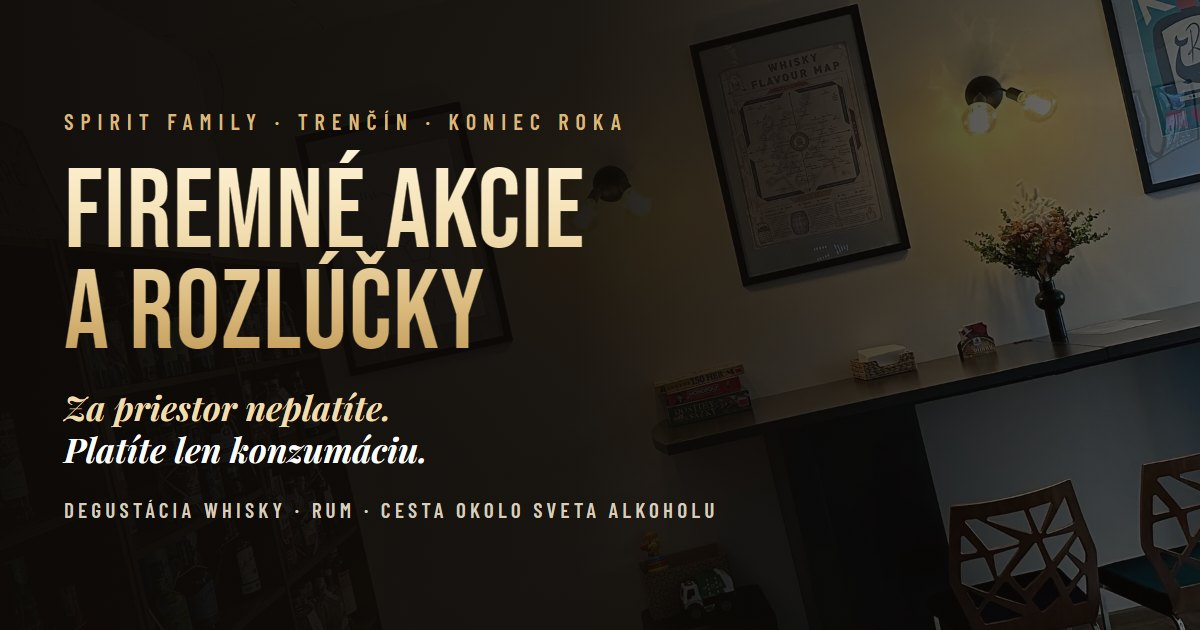
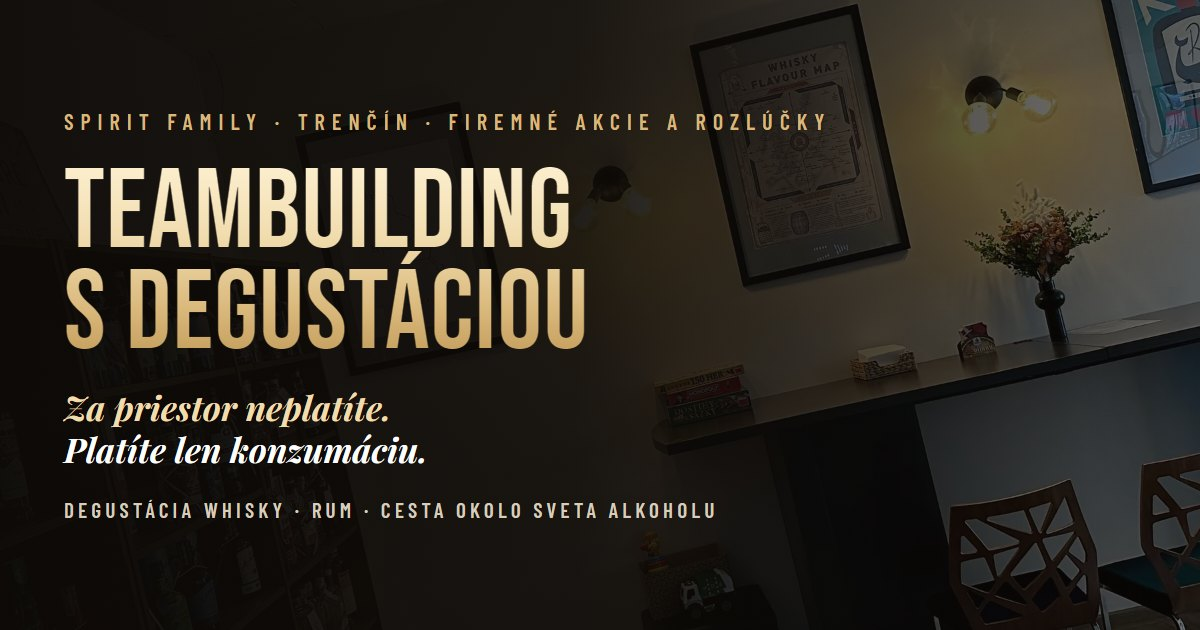
Firemné akcie: teambuilding s degustáciou, tímový kvíz

Changed region(s): [[0.0308, 0.2413, 0.4933, 0.573], [0.37, 0.181, 0.7092, 0.2111]]

diff --git a/firemne-akcie.html b/firemne-akcie.html
@@ -4,8 +4,8 @@
 <meta charset="utf-8">
 <meta property="og:image" content="https://spiritfamily.sk/img/firemne-akcie-og.jpg">
 <meta name="viewport" content="width=device-width, initial-scale=1">
-<title>Firemné akcie a vianočné rozlúčky | Spirit Family Trenčín</title>
-<meta name="description" content="Firemná akcia, vianočná rozlúčka alebo posedenie s kolegami v Spirit Family v Trenčíne. Za priestor neplatíte, platíte len konzumáciu. Riadená degustácia whisky, rumu alebo Cesta okolo sveta alkoholu, vlastné jedlo alebo catering.">
+<title>Teambuilding s degustáciou, firemné akcie a rozlúčky | Spirit Family Trenčín</title>
+<meta name="description" content="Teambuilding s riadenou degustáciou, firemná akcia alebo vianočná rozlúčka v Spirit Family v Trenčíne. Za priestor neplatíte, platíte len konzumáciu. Riadená degustácia whisky, rumu alebo Cesta okolo sveta alkoholu, vlastné jedlo alebo catering.">
 <link rel="canonical" href="https://spiritfamily.sk/firemne-akcie.html">
 <meta name="theme-color" content="#0d0a07">
 <link rel="icon" type="image/png" sizes="32x32" href="img/favicon-32.png">
@@ -13,14 +13,14 @@
 <meta property="og:type" content="website">
 <meta property="og:site_name" content="Spirit Family">
 <meta property="og:locale" content="sk_SK">
-<meta property="og:title" content="Firemné akcie a vianočné rozlúčky | Spirit Family Trenčín">
-<meta property="og:description" content="Firemná akcia, vianočná rozlúčka alebo posedenie s kolegami v Spirit Family v Trenčíne. Za priestor neplatíte, platíte len konzumáciu. Riadená degustácia whisky, rumu alebo Cesta okolo sveta alkoholu, vlastné jedlo alebo catering.">
+<meta property="og:title" content="Teambuilding s degustáciou, firemné akcie a rozlúčky | Spirit Family Trenčín">
+<meta property="og:description" content="Teambuilding s riadenou degustáciou, firemná akcia alebo vianočná rozlúčka v Spirit Family v Trenčíne. Za priestor neplatíte, platíte len konzumáciu. Riadená degustácia whisky, rumu alebo Cesta okolo sveta alkoholu, vlastné jedlo alebo catering.">
 <meta property="og:url" content="https://spiritfamily.sk/firemne-akcie.html">
 <meta property="og:image" content="https://spiritfamily.sk/img/og-image.jpg">
 <meta property="og:image:width" content="1200">
 <meta property="og:image:height" content="630">
 <link rel="preload" href="fonts/BebasNeue-400-latin.woff2" as="font" type="font/woff2" crossorigin>
-<link rel="stylesheet" href="assets/css/style.css?v=851dc91e">
+<link rel="stylesheet" href="assets/css/style.css?v=e42a382a">
 <script>document.documentElement.classList.add('js')</script>
 <script type="application/ld+json">{"@context":"https://schema.org","@type":"BarOrPub","name":"Spirit Family","url":"https://spiritfamily.sk/","image":"https://spiritfamily.sk/img/og-image.jpg","telephone":"+421914365920","email":"miroslav.balaj@spiritfamily.sk","address":{"@type":"PostalAddress","streetAddress":"Stromová 2548/1","addressLocality":"Trenčín – Biskupice","postalCode":"911 01","addressCountry":"SK"},"openingHours":["Mo-Fr 08:30-11:30","Mo-Fr 16:00-22:00","Su 16:00-22:00"],"sameAs":["https://www.facebook.com/Spirit.Family.Trencin","https://instagram.com/spirit_family_tn","https://www.youtube.com/channel/UCdaCXXBIjzJ_YnHXy_MoJWQ"]}</script>
 </head>
@@ -34,7 +34,7 @@
       <a href="index.html" data-nav="index">Domov</a>
       <a href="akcie.html" data-nav="akcie">Akcie</a>
       <a href="degustacia-u-vas.html" data-nav="degustacia-u-vas">Degustácia u vás</a>
-      <a href="firemne-akcie.html" data-nav="firemne-akcie" aria-current="page">Firemné akcie</a>
+      <a href="firemne-akcie.html" data-nav="firemne-akcie" aria-current="page">Teambuilding</a>
       <a href="novinky.html" data-nav="novinky">Novinky</a>
       <a href="listok.html" data-nav="listok">Nápojový lístok</a>
       <a href="index.html#galeria">Galéria</a>
@@ -47,9 +47,9 @@
   <section class="hero">
     <div class="hero-bg"><img src="img/galeria/interier-miestnost.webp" alt="" fetchpriority="high"></div>
     <div class="wrap">
-      <p class="eyebrow">Koniec roka · firemné akcie · rozlúčky</p>
-      <h1><span class="gold-text">Firemná akcia</span><br><span class="gold-text">u nás</span></h1>
-      <p class="serif-i">Za priestor u nás nikdy neplatíte. Platíte len to, čo si dáte.</p>
+      <p class="eyebrow">Teambuilding · firemné akcie · rozlúčky</p>
+      <h1><span class="gold-text">Teambuilding</span><br><span class="gold-text">s degustáciou</span></h1>
+      <p class="serif-i">Riadená degustácia, ktorá tím spojí. Za priestor u nás nikdy neplatíte, platíte len to, čo si dáte.</p>
       <div class="hero-cta">
         <a class="btn" href="#dopyt" data-dopyt="podujatie">Poslať dopyt</a>
         <a class="btn btn-ghost" href="#degustacie">Štýly degustácií</a>
@@ -67,7 +67,7 @@
       <div class="rv">
         <p class="eyebrow">Ponuka</p>
         <h2 class="h2">Večer s kolegami bez starostí</h2>
-        <p class="lead">Vianočný večierok, rozlúčka s rokom, poďakovanie tímu alebo stretnutie s klientmi. Bar pripravíme len pre vás a postaráme sa o to, aby sa večer vydaril.</p>
+        <p class="lead">Teambuilding, vianočný večierok, rozlúčka s rokom, poďakovanie tímu alebo stretnutie s klientmi. Bar pripravíme len pre vás a postaráme sa o to, aby sa večer vydaril.</p>
         <ul class="feats">
           <li>
             <svg viewBox="0 0 40 40" fill="none" stroke="currentColor" stroke-width="1.5" stroke-linecap="round" stroke-linejoin="round" aria-hidden="true"><path d="M6 15 20 7l14 8"/><path d="M9 15v16M31 15v16M15 31V21h10v10"/><path d="M5 33h30"/></svg>
@@ -75,7 +75,7 @@
           </li>
           <li>
             <svg viewBox="0 0 40 40" fill="none" stroke="currentColor" stroke-width="1.5" stroke-linecap="round" stroke-linejoin="round" aria-hidden="true"><path d="M13 5h14c1 6 1 11-2 15-1.5 2-3.5 3-5 3s-3.5-1-5-3c-3-4-3-9-2-15z"/><path d="M12.6 12h14.8"/><path d="M20 23v10M14 35h12"/></svg>
-            <div><h3>Riadená degustácia</h3><p>Ak chcete, večer odštartujeme degustáciou s výkladom: whisky, rum alebo Cesta okolo sveta alkoholu.</p></div>
+            <div><h3>Riadená degustácia ako teambuilding</h3><p>Degustácia s výkladom: whisky, rum alebo Cesta okolo sveta alkoholu. Na želanie aj kvíz, v ktorom proti sebe súťažia tímy.</p></div>
           </li>
           <li>
             <svg viewBox="0 0 40 40" fill="none" stroke="currentColor" stroke-width="1.5" stroke-linecap="round" stroke-linejoin="round" aria-hidden="true"><circle cx="20" cy="21" r="10"/><circle cx="20" cy="21" r="5"/><path d="M5 8v9a3 3 0 0 0 3 3v14M8 8v9M11 8v9a3 3 0 0 1-3 3"/><path d="M33 8c-2 2-3 5-3 9h3v17"/></svg>
@@ -94,7 +94,7 @@
     <div class="wrap">
       <div class="sec-head rv">
         <div>
-          <p class="eyebrow">Riadené degustácie</p>
+          <p class="eyebrow">Riadené degustácie · teambuilding</p>
           <h2>Vyberte si štýl degustácie</h2>
           <p class="serif-i">Každú vedieme s výkladom: odkiaľ destilát pochádza, ako vzniká a čo v pohári hľadať.</p>
         </div>
@@ -154,6 +154,10 @@
         <details>
           <summary>Môžeme si priniesť vlastné jedlo?</summary>
           <p>Áno. Jedlo si pokojne doneste. Ak nechcete nič riešiť, vybavíme vám catering a dohodneme ho podľa vašich predstáv.</p>
+        </details>
+        <details>
+          <summary>Hodí sa degustácia na teambuilding?</summary>
+          <p>Áno. Riadená degustácia rozprúdi debatu aj medzi kolegami, ktorí sa bežne nestretávajú. Na želanie ju doplníme kvízom, v ktorom súťažia tímy, a večer pokračuje voľnou zábavou.</p>
         </details>
         <details>
           <summary>Musí byť súčasťou degustácia?</summary>
@@ -232,7 +236,7 @@
     <span>Alkohol podávame len osobám starším ako 18 rokov · <a href="podmienky.html">Obchodné podmienky</a> · <a href="ochrana-udajov.html">Ochrana osobných údajov</a></span>
   </div>
 </footer>
-<script src="assets/js/config.js?v=851dc91e"></script>
-<script src="assets/js/app.js?v=851dc91e"></script>
+<script src="assets/js/config.js?v=e42a382a"></script>
+<script src="assets/js/app.js?v=e42a382a"></script>
 </body>
 </html>

diff --git a/akcie.html b/akcie.html
@@ -20,7 +20,7 @@
 <meta property="og:image:width" content="1200">
 <meta property="og:image:height" content="630">
 <link rel="preload" href="fonts/BebasNeue-400-latin.woff2" as="font" type="font/woff2" crossorigin>
-<link rel="stylesheet" href="assets/css/style.css?v=851dc91e">
+<link rel="stylesheet" href="assets/css/style.css?v=e42a382a">
 <script>document.documentElement.classList.add('js')</script>
 <script type="application/ld+json">{"@context":"https://schema.org","@type":"BarOrPub","name":"Spirit Family","url":"https://spiritfamily.sk/","image":"https://spiritfamily.sk/img/og-image.jpg","telephone":"+421914365920","email":"miroslav.balaj@spiritfamily.sk","address":{"@type":"PostalAddress","streetAddress":"Stromová 2548/1","addressLocality":"Trenčín – Biskupice","postalCode":"911 01","addressCountry":"SK"},"openingHours":["Mo-Fr 08:30-11:30","Mo-Fr 16:00-22:00","Su 16:00-22:00"],"sameAs":["https://www.facebook.com/Spirit.Family.Trencin","https://instagram.com/spirit_family_tn","https://www.youtube.com/channel/UCdaCXXBIjzJ_YnHXy_MoJWQ"]}</script>
 </head>
@@ -34,7 +34,7 @@
       <a href="index.html" data-nav="index">Domov</a>
       <a href="akcie.html" data-nav="akcie" aria-current="page">Akcie</a>
       <a href="degustacia-u-vas.html" data-nav="degustacia-u-vas">Degustácia u vás</a>
-      <a href="firemne-akcie.html" data-nav="firemne-akcie">Firemné akcie</a>
+      <a href="firemne-akcie.html" data-nav="firemne-akcie">Teambuilding</a>
       <a href="novinky.html" data-nav="novinky">Novinky</a>
       <a href="listok.html" data-nav="listok">Nápojový lístok</a>
       <a href="index.html#galeria">Galéria</a>
@@ -118,8 +118,8 @@
           <button class="btn" type="button" data-dopyt="degustacia">Objednať degustáciu</button>
         </article>
         <article class="priv-card">
-          <p class="eyebrow">Firemné akcie · oslavy</p>
-          <h3>Firemná akcia, rozlúčka, oslava</h3>
+          <p class="eyebrow">Teambuilding · firemné akcie · oslavy</p>
+          <h3>Teambuilding, firemná akcia, oslava</h3>
           <p>Za priestor u nás nikdy neplatíte, platíte len konzumáciu. Vlastné jedlo alebo catering, ak chcete, aj s riadenou degustáciou. <a href="firemne-akcie.html">Celá ponuka</a></p>
           <p class="priv-price"><span>0 €</span> za priestor</p>
           <button class="btn btn-ghost" type="button" data-dopyt="podujatie">Poslať dopyt</button>
@@ -181,7 +181,7 @@
     <span>Alkohol podávame len osobám starším ako 18 rokov · <a href="podmienky.html">Obchodné podmienky</a> · <a href="ochrana-udajov.html">Ochrana osobných údajov</a></span>
   </div>
 </footer>
-<script src="assets/js/config.js?v=851dc91e"></script>
-<script src="assets/js/app.js?v=851dc91e"></script>
+<script src="assets/js/config.js?v=e42a382a"></script>
+<script src="assets/js/app.js?v=e42a382a"></script>
 </body>
 </html>

diff --git a/index.html b/index.html
@@ -20,7 +20,7 @@
 <meta property="og:image:width" content="1200">
 <meta property="og:image:height" content="630">
 <link rel="preload" href="fonts/BebasNeue-400-latin.woff2" as="font" type="font/woff2" crossorigin>
-<link rel="stylesheet" href="assets/css/style.css?v=851dc91e">
+<link rel="stylesheet" href="assets/css/style.css?v=e42a382a">
 <script>document.documentElement.classList.add('js')</script>
 <script type="application/ld+json">{"@context":"https://schema.org","@type":"BarOrPub","name":"Spirit Family","url":"https://spiritfamily.sk/","image":"https://spiritfamily.sk/img/og-image.jpg","telephone":"+421914365920","email":"miroslav.balaj@spiritfamily.sk","address":{"@type":"PostalAddress","streetAddress":"Stromová 2548/1","addressLocality":"Trenčín – Biskupice","postalCode":"911 01","addressCountry":"SK"},"openingHours":["Mo-Fr 08:30-11:30","Mo-Fr 16:00-22:00","Su 16:00-22:00"],"sameAs":["https://www.facebook.com/Spirit.Family.Trencin","https://instagram.com/spirit_family_tn","https://www.youtube.com/channel/UCdaCXXBIjzJ_YnHXy_MoJWQ"]}</script>
 </head>
@@ -34,7 +34,7 @@
       <a href="index.html" data-nav="index" aria-current="page">Domov</a>
       <a href="akcie.html" data-nav="akcie">Akcie</a>
       <a href="degustacia-u-vas.html" data-nav="degustacia-u-vas">Degustácia u vás</a>
-      <a href="firemne-akcie.html" data-nav="firemne-akcie">Firemné akcie</a>
+      <a href="firemne-akcie.html" data-nav="firemne-akcie">Teambuilding</a>
       <a href="novinky.html" data-nav="novinky">Novinky</a>
       <a href="listok.html" data-nav="listok">Nápojový lístok</a>
       <a href="index.html#galeria">Galéria</a>
@@ -81,8 +81,8 @@
       <a class="priv-wide rv" href="firemne-akcie.html">
         <img src="img/galeria/salonik-m.webp" alt="" loading="lazy">
         <span>
-          <span class="eyebrow">Koniec roka · firemné akcie a rozlúčky</span>
-          <strong>Firemná akcia u nás, priestor zadarmo</strong>
+          <span class="eyebrow">Teambuilding · firemné akcie · rozlúčky</span>
+          <strong>Teambuilding s degustáciou, priestor zadarmo</strong>
           <span>Platíte len konzumáciu. Riadená degustácia whisky, rumu alebo Cesta okolo sveta alkoholu, vlastné jedlo alebo catering. Voľných termínov máme ešte veľa.</span>
           <span class="link-arrow">Pozrieť ponuku</span>
         </span>
@@ -266,7 +266,7 @@
     <span>Alkohol podávame len osobám starším ako 18 rokov · <a href="podmienky.html">Obchodné podmienky</a> · <a href="ochrana-udajov.html">Ochrana osobných údajov</a></span>
   </div>
 </footer>
-<script src="assets/js/config.js?v=851dc91e"></script>
-<script src="assets/js/app.js?v=851dc91e"></script>
+<script src="assets/js/config.js?v=e42a382a"></script>
+<script src="assets/js/app.js?v=e42a382a"></script>
 </body>
 </html>

diff --git a/degustacia-u-vas.html b/degustacia-u-vas.html
@@ -20,7 +20,7 @@
 <meta property="og:image:width" content="1200">
 <meta property="og:image:height" content="630">
 <link rel="preload" href="fonts/BebasNeue-400-latin.woff2" as="font" type="font/woff2" crossorigin>
-<link rel="stylesheet" href="assets/css/style.css?v=851dc91e">
+<link rel="stylesheet" href="assets/css/style.css?v=e42a382a">
 <script>document.documentElement.classList.add('js')</script>
 <script type="application/ld+json">{"@context":"https://schema.org","@type":"BarOrPub","name":"Spirit Family","url":"https://spiritfamily.sk/","image":"https://spiritfamily.sk/img/og-image.jpg","telephone":"+421914365920","email":"miroslav.balaj@spiritfamily.sk","address":{"@type":"PostalAddress","streetAddress":"Stromová 2548/1","addressLocality":"Trenčín – Biskupice","postalCode":"911 01","addressCountry":"SK"},"openingHours":["Mo-Fr 08:30-11:30","Mo-Fr 16:00-22:00","Su 16:00-22:00"],"sameAs":["https://www.facebook.com/Spirit.Family.Trencin","https://instagram.com/spirit_family_tn","https://www.youtube.com/channel/UCdaCXXBIjzJ_YnHXy_MoJWQ"]}</script>
 </head>
@@ -34,7 +34,7 @@
       <a href="index.html" data-nav="index">Domov</a>
       <a href="akcie.html" data-nav="akcie">Akcie</a>
       <a href="degustacia-u-vas.html" data-nav="degustacia-u-vas" aria-current="page">Degustácia u vás</a>
-      <a href="firemne-akcie.html" data-nav="firemne-akcie">Firemné akcie</a>
+      <a href="firemne-akcie.html" data-nav="firemne-akcie">Teambuilding</a>
       <a href="novinky.html" data-nav="novinky">Novinky</a>
       <a href="listok.html" data-nav="listok">Nápojový lístok</a>
       <a href="index.html#galeria">Galéria</a>
@@ -254,7 +254,7 @@
     <span>Alkohol podávame len osobám starším ako 18 rokov · <a href="podmienky.html">Obchodné podmienky</a> · <a href="ochrana-udajov.html">Ochrana osobných údajov</a></span>
   </div>
 </footer>
-<script src="assets/js/config.js?v=851dc91e"></script>
-<script src="assets/js/app.js?v=851dc91e"></script>
+<script src="assets/js/config.js?v=e42a382a"></script>
+<script src="assets/js/app.js?v=e42a382a"></script>
 </body>
 </html>

diff --git a/listok.html b/listok.html
@@ -20,7 +20,7 @@
 <meta property="og:image:width" content="1200">
 <meta property="og:image:height" content="630">
 <link rel="preload" href="fonts/BebasNeue-400-latin.woff2" as="font" type="font/woff2" crossorigin>
-<link rel="stylesheet" href="assets/css/style.css?v=851dc91e">
+<link rel="stylesheet" href="assets/css/style.css?v=e42a382a">
 <script>document.documentElement.classList.add('js')</script>
 <script type="application/ld+json">{"@context":"https://schema.org","@type":"BarOrPub","name":"Spirit Family","url":"https://spiritfamily.sk/","image":"https://spiritfamily.sk/img/og-image.jpg","telephone":"+421914365920","email":"miroslav.balaj@spiritfamily.sk","address":{"@type":"PostalAddress","streetAddress":"Stromová 2548/1","addressLocality":"Trenčín – Biskupice","postalCode":"911 01","addressCountry":"SK"},"openingHours":["Mo-Fr 08:30-11:30","Mo-Fr 16:00-22:00","Su 16:00-22:00"],"sameAs":["https://www.facebook.com/Spirit.Family.Trencin","https://instagram.com/spirit_family_tn","https://www.youtube.com/channel/UCdaCXXBIjzJ_YnHXy_MoJWQ"]}</script>
 </head>
@@ -34,7 +34,7 @@
       <a href="index.html" data-nav="index">Domov</a>
       <a href="akcie.html" data-nav="akcie">Akcie</a>
       <a href="degustacia-u-vas.html" data-nav="degustacia-u-vas">Degustácia u vás</a>
-      <a href="firemne-akcie.html" data-nav="firemne-akcie">Firemné akcie</a>
+      <a href="firemne-akcie.html" data-nav="firemne-akcie">Teambuilding</a>
       <a href="novinky.html" data-nav="novinky">Novinky</a>
       <a href="listok.html" data-nav="listok" aria-current="page">Nápojový lístok</a>
       <a href="index.html#galeria">Galéria</a>
@@ -161,7 +161,7 @@
     <span>Alkohol podávame len osobám starším ako 18 rokov · <a href="podmienky.html">Obchodné podmienky</a> · <a href="ochrana-udajov.html">Ochrana osobných údajov</a></span>
   </div>
 </footer>
-<script src="assets/js/config.js?v=851dc91e"></script>
-<script src="assets/js/app.js?v=851dc91e"></script>
+<script src="assets/js/config.js?v=e42a382a"></script>
+<script src="assets/js/app.js?v=e42a382a"></script>
 </body>
 </html>

diff --git a/novinky.html b/novinky.html
@@ -20,7 +20,7 @@
 <meta property="og:image:width" content="1200">
 <meta property="og:image:height" content="630">
 <link rel="preload" href="fonts/BebasNeue-400-latin.woff2" as="font" type="font/woff2" crossorigin>
-<link rel="stylesheet" href="assets/css/style.css?v=851dc91e">
+<link rel="stylesheet" href="assets/css/style.css?v=e42a382a">
 <script>document.documentElement.classList.add('js')</script>
 <script type="application/ld+json">{"@context":"https://schema.org","@type":"BarOrPub","name":"Spirit Family","url":"https://spiritfamily.sk/","image":"https://spiritfamily.sk/img/og-image.jpg","telephone":"+421914365920","email":"miroslav.balaj@spiritfamily.sk","address":{"@type":"PostalAddress","streetAddress":"Stromová 2548/1","addressLocality":"Trenčín – Biskupice","postalCode":"911 01","addressCountry":"SK"},"openingHours":["Mo-Fr 08:30-11:30","Mo-Fr 16:00-22:00","Su 16:00-22:00"],"sameAs":["https://www.facebook.com/Spirit.Family.Trencin","https://instagram.com/spirit_family_tn","https://www.youtube.com/channel/UCdaCXXBIjzJ_YnHXy_MoJWQ"]}</script>
 </head>
@@ -34,7 +34,7 @@
       <a href="index.html" data-nav="index">Domov</a>
       <a href="akcie.html" data-nav="akcie">Akcie</a>
       <a href="degustacia-u-vas.html" data-nav="degustacia-u-vas">Degustácia u vás</a>
-      <a href="firemne-akcie.html" data-nav="firemne-akcie">Firemné akcie</a>
+      <a href="firemne-akcie.html" data-nav="firemne-akcie">Teambuilding</a>
       <a href="novinky.html" data-nav="novinky" aria-current="page">Novinky</a>
       <a href="listok.html" data-nav="listok">Nápojový lístok</a>
       <a href="index.html#galeria">Galéria</a>
@@ -110,7 +110,7 @@
     <span>Alkohol podávame len osobám starším ako 18 rokov · <a href="podmienky.html">Obchodné podmienky</a> · <a href="ochrana-udajov.html">Ochrana osobných údajov</a></span>
   </div>
 </footer>
-<script src="assets/js/config.js?v=851dc91e"></script>
-<script src="assets/js/app.js?v=851dc91e"></script>
+<script src="assets/js/config.js?v=e42a382a"></script>
+<script src="assets/js/app.js?v=e42a382a"></script>
 </body>
 </html>

diff --git a/ochrana-udajov.html b/ochrana-udajov.html
@@ -20,7 +20,7 @@
 <meta property="og:image:width" content="1200">
 <meta property="og:image:height" content="630">
 <link rel="preload" href="fonts/BebasNeue-400-latin.woff2" as="font" type="font/woff2" crossorigin>
-<link rel="stylesheet" href="assets/css/style.css?v=851dc91e">
+<link rel="stylesheet" href="assets/css/style.css?v=e42a382a">
 <script>document.documentElement.classList.add('js')</script>
 <script type="application/ld+json">{"@context":"https://schema.org","@type":"BarOrPub","name":"Spirit Family","url":"https://spiritfamily.sk/","image":"https://spiritfamily.sk/img/og-image.jpg","telephone":"+421914365920","email":"miroslav.balaj@spiritfamily.sk","address":{"@type":"PostalAddress","streetAddress":"Stromová 2548/1","addressLocality":"Trenčín – Biskupice","postalCode":"911 01","addressCountry":"SK"},"openingHours":["Mo-Fr 08:30-11:30","Mo-Fr 16:00-22:00","Su 16:00-22:00"],"sameAs":["https://www.facebook.com/Spirit.Family.Trencin","https://instagram.com/spirit_family_tn","https://www.youtube.com/channel/UCdaCXXBIjzJ_YnHXy_MoJWQ"]}</script>
 </head>
@@ -34,7 +34,7 @@
       <a href="index.html" data-nav="index">Domov</a>
       <a href="akcie.html" data-nav="akcie">Akcie</a>
       <a href="degustacia-u-vas.html" data-nav="degustacia-u-vas">Degustácia u vás</a>
-      <a href="firemne-akcie.html" data-nav="firemne-akcie">Firemné akcie</a>
+      <a href="firemne-akcie.html" data-nav="firemne-akcie">Teambuilding</a>
       <a href="novinky.html" data-nav="novinky">Novinky</a>
       <a href="listok.html" data-nav="listok">Nápojový lístok</a>
       <a href="index.html#galeria">Galéria</a>
@@ -126,7 +126,7 @@
     <span>Alkohol podávame len osobám starším ako 18 rokov · <a href="podmienky.html">Obchodné podmienky</a> · <a href="ochrana-udajov.html">Ochrana osobných údajov</a></span>
   </div>
 </footer>
-<script src="assets/js/config.js?v=851dc91e"></script>
-<script src="assets/js/app.js?v=851dc91e"></script>
+<script src="assets/js/config.js?v=e42a382a"></script>
+<script src="assets/js/app.js?v=e42a382a"></script>
 </body>
 </html>

diff --git a/platba.html b/platba.html
@@ -20,7 +20,7 @@
 <meta property="og:image:width" content="1200">
 <meta property="og:image:height" content="630">
 <link rel="preload" href="fonts/BebasNeue-400-latin.woff2" as="font" type="font/woff2" crossorigin>
-<link rel="stylesheet" href="assets/css/style.css?v=851dc91e">
+<link rel="stylesheet" href="assets/css/style.css?v=e42a382a">
 <script>document.documentElement.classList.add('js')</script>
 <script type="application/ld+json">{"@context":"https://schema.org","@type":"BarOrPub","name":"Spirit Family","url":"https://spiritfamily.sk/","image":"https://spiritfamily.sk/img/og-image.jpg","telephone":"+421914365920","email":"miroslav.balaj@spiritfamily.sk","address":{"@type":"PostalAddress","streetAddress":"Stromová 2548/1","addressLocality":"Trenčín – Biskupice","postalCode":"911 01","addressCountry":"SK"},"openingHours":["Mo-Fr 08:30-11:30","Mo-Fr 16:00-22:00","Su 16:00-22:00"],"sameAs":["https://www.facebook.com/Spirit.Family.Trencin","https://instagram.com/spirit_family_tn","https://www.youtube.com/channel/UCdaCXXBIjzJ_YnHXy_MoJWQ"]}</script>
 </head>
@@ -34,7 +34,7 @@
       <a href="index.html" data-nav="index">Domov</a>
       <a href="akcie.html" data-nav="akcie">Akcie</a>
       <a href="degustacia-u-vas.html" data-nav="degustacia-u-vas">Degustácia u vás</a>
-      <a href="firemne-akcie.html" data-nav="firemne-akcie">Firemné akcie</a>
+      <a href="firemne-akcie.html" data-nav="firemne-akcie">Teambuilding</a>
       <a href="novinky.html" data-nav="novinky">Novinky</a>
       <a href="listok.html" data-nav="listok">Nápojový lístok</a>
       <a href="index.html#galeria">Galéria</a>
@@ -102,7 +102,7 @@
     <span>Alkohol podávame len osobám starším ako 18 rokov · <a href="podmienky.html">Obchodné podmienky</a> · <a href="ochrana-udajov.html">Ochrana osobných údajov</a></span>
   </div>
 </footer>
-<script src="assets/js/config.js?v=851dc91e"></script>
-<script src="assets/js/app.js?v=851dc91e"></script>
+<script src="assets/js/config.js?v=e42a382a"></script>
+<script src="assets/js/app.js?v=e42a382a"></script>
 </body>
 </html>

diff --git a/podmienky.html b/podmienky.html
@@ -20,7 +20,7 @@
 <meta property="og:image:width" content="1200">
 <meta property="og:image:height" content="630">
 <link rel="preload" href="fonts/BebasNeue-400-latin.woff2" as="font" type="font/woff2" crossorigin>
-<link rel="stylesheet" href="assets/css/style.css?v=851dc91e">
+<link rel="stylesheet" href="assets/css/style.css?v=e42a382a">
 <script>document.documentElement.classList.add('js')</script>
 <script type="application/ld+json">{"@context":"https://schema.org","@type":"BarOrPub","name":"Spirit Family","url":"https://spiritfamily.sk/","image":"https://spiritfamily.sk/img/og-image.jpg","telephone":"+421914365920","email":"miroslav.balaj@spiritfamily.sk","address":{"@type":"PostalAddress","streetAddress":"Stromová 2548/1","addressLocality":"Trenčín – Biskupice","postalCode":"911 01","addressCountry":"SK"},"openingHours":["Mo-Fr 08:30-11:30","Mo-Fr 16:00-22:00","Su 16:00-22:00"],"sameAs":["https://www.facebook.com/Spirit.Family.Trencin","https://instagram.com/spirit_family_tn","https://www.youtube.com/channel/UCdaCXXBIjzJ_YnHXy_MoJWQ"]}</script>
 </head>
@@ -34,7 +34,7 @@
       <a href="index.html" data-nav="index">Domov</a>
       <a href="akcie.html" data-nav="akcie">Akcie</a>
       <a href="degustacia-u-vas.html" data-nav="degustacia-u-vas">Degustácia u vás</a>
-      <a href="firemne-akcie.html" data-nav="firemne-akcie">Firemné akcie</a>
+      <a href="firemne-akcie.html" data-nav="firemne-akcie">Teambuilding</a>
       <a href="novinky.html" data-nav="novinky">Novinky</a>
       <a href="listok.html" data-nav="listok">Nápojový lístok</a>
       <a href="index.html#galeria">Galéria</a>
@@ -132,7 +132,7 @@
     <span>Alkohol podávame len osobám starším ako 18 rokov · <a href="podmienky.html">Obchodné podmienky</a> · <a href="ochrana-udajov.html">Ochrana osobných údajov</a></span>
   </div>
 </footer>
-<script src="assets/js/config.js?v=851dc91e"></script>
-<script src="assets/js/app.js?v=851dc91e"></script>
+<script src="assets/js/config.js?v=e42a382a"></script>
+<script src="assets/js/app.js?v=e42a382a"></script>
 </body>
 </html>

diff --git a/404.html b/404.html
@@ -20,7 +20,7 @@
 <meta property="og:image:width" content="1200">
 <meta property="og:image:height" content="630">
 <link rel="preload" href="fonts/BebasNeue-400-latin.woff2" as="font" type="font/woff2" crossorigin>
-<link rel="stylesheet" href="assets/css/style.css?v=851dc91e">
+<link rel="stylesheet" href="assets/css/style.css?v=e42a382a">
 <script>document.documentElement.classList.add('js')</script>
 <script type="application/ld+json">{"@context":"https://schema.org","@type":"BarOrPub","name":"Spirit Family","url":"https://spiritfamily.sk/","image":"https://spiritfamily.sk/img/og-image.jpg","telephone":"+421914365920","email":"miroslav.balaj@spiritfamily.sk","address":{"@type":"PostalAddress","streetAddress":"Stromová 2548/1","addressLocality":"Trenčín – Biskupice","postalCode":"911 01","addressCountry":"SK"},"openingHours":["Mo-Fr 08:30-11:30","Mo-Fr 16:00-22:00","Su 16:00-22:00"],"sameAs":["https://www.facebook.com/Spirit.Family.Trencin","https://instagram.com/spirit_family_tn","https://www.youtube.com/channel/UCdaCXXBIjzJ_YnHXy_MoJWQ"]}</script>
 </head>
@@ -34,7 +34,7 @@
       <a href="index.html" data-nav="index">Domov</a>
       <a href="akcie.html" data-nav="akcie">Akcie</a>
       <a href="degustacia-u-vas.html" data-nav="degustacia-u-vas">Degustácia u vás</a>
-      <a href="firemne-akcie.html" data-nav="firemne-akcie">Firemné akcie</a>
+      <a href="firemne-akcie.html" data-nav="firemne-akcie">Teambuilding</a>
       <a href="novinky.html" data-nav="novinky">Novinky</a>
       <a href="listok.html" data-nav="listok">Nápojový lístok</a>
       <a href="index.html#galeria">Galéria</a>
@@ -96,7 +96,7 @@
     <span>Alkohol podávame len osobám starším ako 18 rokov · <a href="podmienky.html">Obchodné podmienky</a> · <a href="ochrana-udajov.html">Ochrana osobných údajov</a></span>
   </div>
 </footer>
-<script src="assets/js/config.js?v=851dc91e"></script>
-<script src="assets/js/app.js?v=851dc91e"></script>
+<script src="assets/js/config.js?v=e42a382a"></script>
+<script src="assets/js/app.js?v=e42a382a"></script>
 </body>
 </html>

diff --git a/assets/js/app.js b/assets/js/app.js
@@ -384,7 +384,7 @@
   /* ---------- Súkromné akcie (dopyt) ---------- */
   const DRUHY = {
     degustacia: { nazov: 'Súkromná degustácia', kratko: 'Degustácia', popis: CFG.SUKROMNA_CENA || '', typ: 'whisky' },
-    podujatie: { nazov: 'Firemná akcia / oslava', kratko: 'Firemná akcia, oslava', popis: 'priestor zadarmo, platíte len konzumáciu', typ: 'ine' }
+    podujatie: { nazov: 'Teambuilding / firemná akcia', kratko: 'Teambuilding, firemná akcia, oslava', popis: 'priestor zadarmo, platíte len konzumáciu', typ: 'ine' }
   };
 
   const STYLY = ['Bez degustácie', 'Whisky', 'Rum', 'Cesta okolo sveta alkoholu', 'Ešte neviem'];
